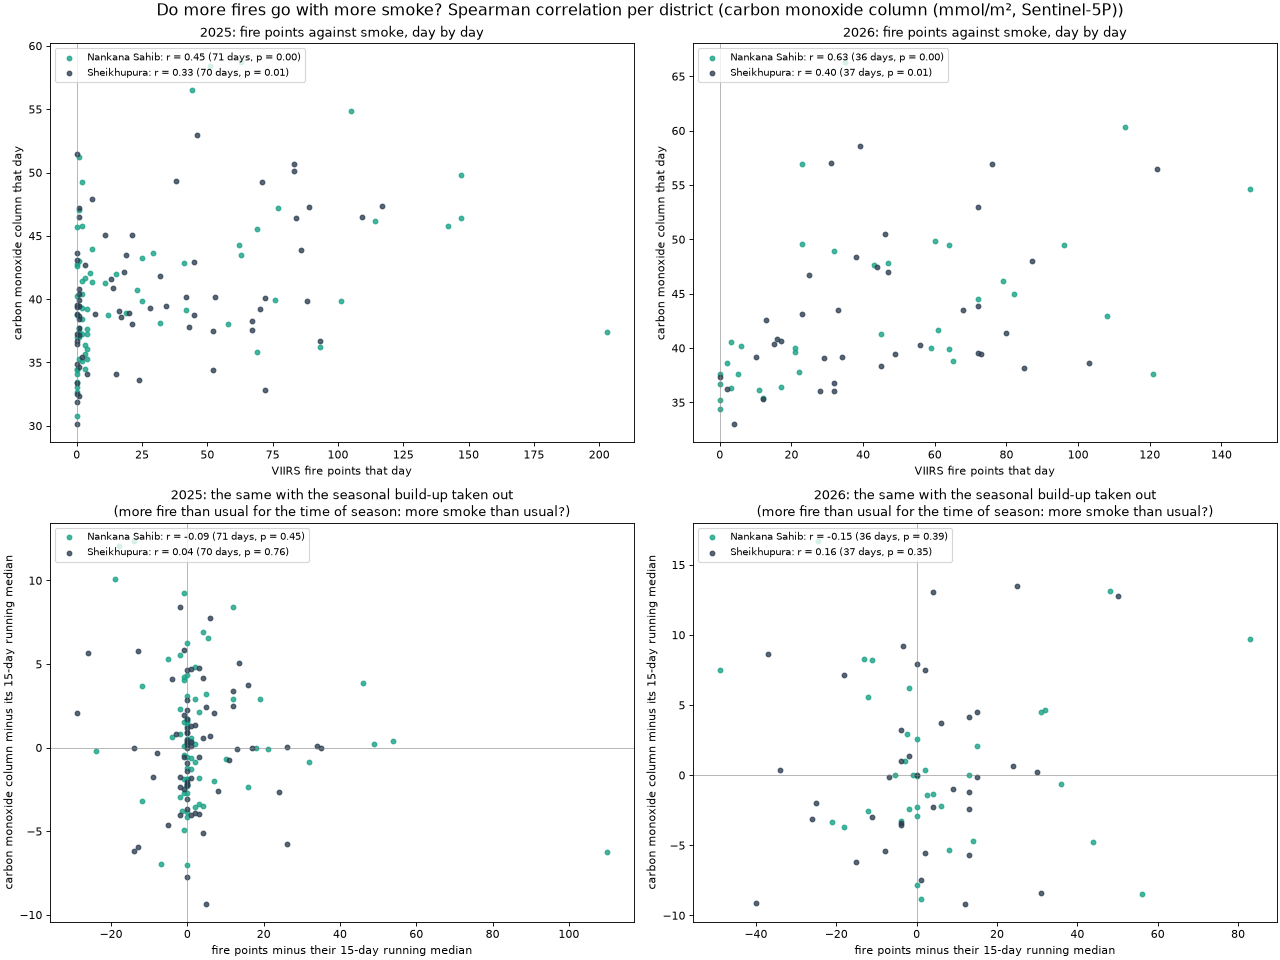
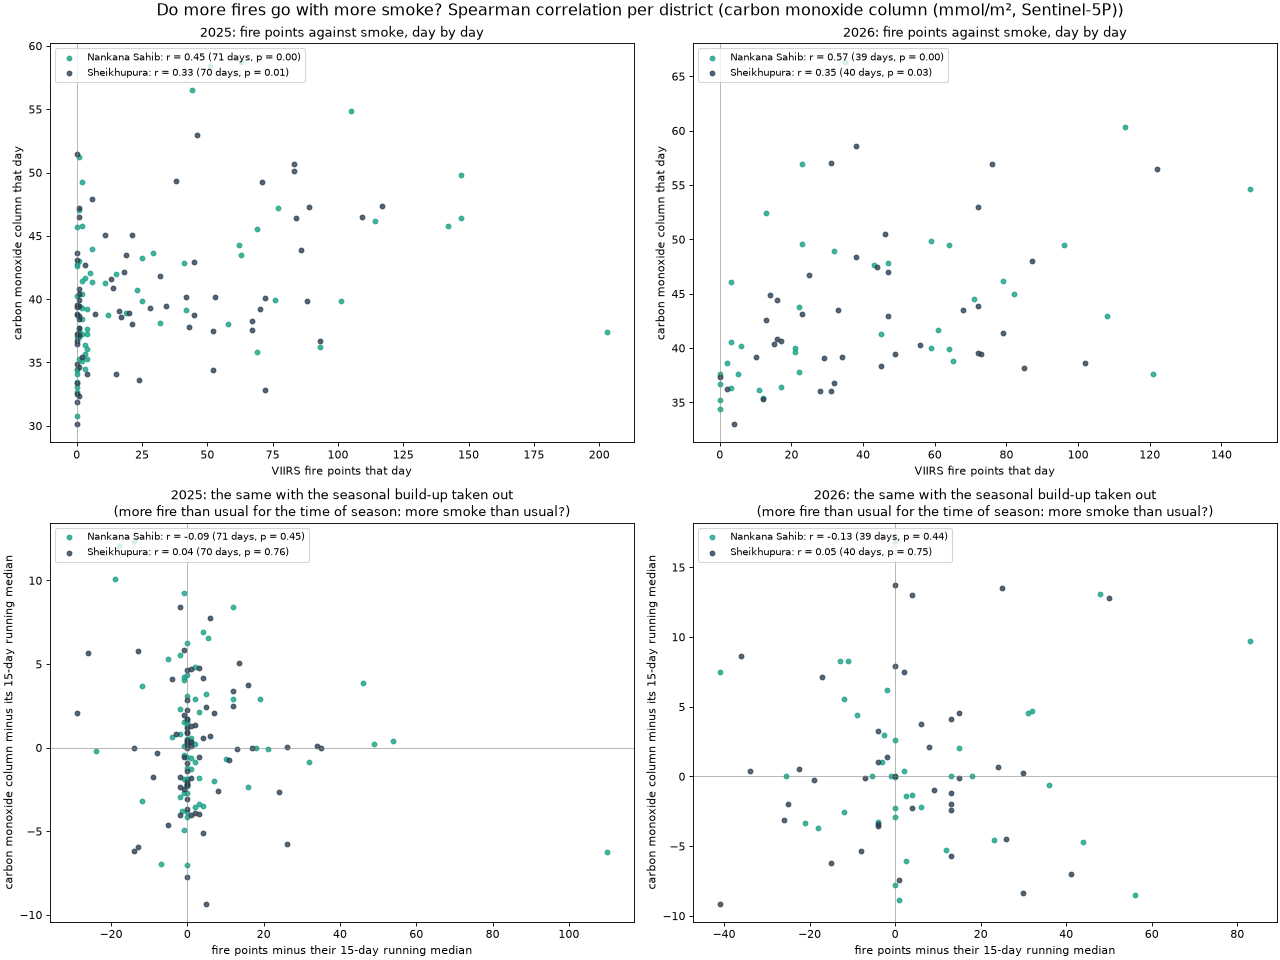
Update 2026 to 15 November: an earlier, smaller peak than 2025
- By 15 Nov 2026: 11,693 ha of farmland burned, 14% less than 2025 by the same date.
- 2026 fire points peaked on 1 Nov; 2025's surge from 5 Nov did not repeat.
- VIIRS missed 76% of burned farmland to 15 Nov (71% in 2025 by the same date).
- "Possibly burned" jumped again on 15 Nov; still not counted.

diff --git a/README.md b/README.md
@@ -268,30 +268,33 @@ fire points missed. Then: does the smoke over a district rise and fall with its 
   burned pixel is spread evenly over the afternoons in its window. Sums over a week are close; single
   days are an estimate.
 
-| Farmland burned (burn scars) | 2025, 1-31 Oct | 2026, 1-31 Oct | 2025, 1 Oct-10 Nov | 2026, 1 Oct-10 Nov | 2025, whole season |
+| Farmland burned (burn scars) | 2025, 1-31 Oct | 2026, 1-31 Oct | 2025, 1 Oct-15 Nov | 2026, 1 Oct-15 Nov | 2025, whole season |
 |---|---|---|---|---|---|
-| Sheikhupura | 3,897 ha (1.3%) | 3,207 ha (1.1%) | 6,492 ha (2.2%) | 4,743 ha (1.6%) | 8,783 ha (2.9%) |
-| Nankana Sahib | 2,288 ha (1.3%) | **3,415 ha (1.9%)** | 5,492 ha (3.1%) | 5,364 ha (3.0%) | 6,353 ha (3.6%) |
-| **Both districts** | **6,184 ha (1.3%)** | **6,622 ha (1.4%)** | **11,984 ha (2.5%)** | **10,107 ha (2.1%)** | **15,137 ha (3.2%)** |
-| VIIRS fire points, both districts | 2,258 | 2,222 | 3,987 | 3,527 | 4,340 |
-| Burned farmland with a fire point on it | 1,826 of 6,134 ha | 1,779 of 6,606 ha | 3,657 of 11,933 ha | 2,620 of 10,091 ha | 4,013 of 15,086 ha |
-| **Missed by VIIRS** | **70%** (Sheikhupura 71%, Nankana Sahib 69%) | **73%** (75%, 72%) | **69%** (73%, 65%) | **74%** (76%, 72%) | **73%** (78%, 67%) |
+| Sheikhupura | 3,897 ha (1.3%) | 3,207 ha (1.1%) | 7,497 ha (2.5%) | 5,702 ha (1.9%) | 8,783 ha (2.9%) |
+| Nankana Sahib | 2,288 ha (1.3%) | **3,415 ha (1.9%)** | 6,072 ha (3.4%) | 5,991 ha (3.4%) | 6,353 ha (3.6%) |
+| **Both districts** | **6,184 ha (1.3%)** | **6,622 ha (1.4%)** | **13,569 ha (2.9%)** | **11,693 ha (2.5%)** | **15,137 ha (3.2%)** |
+| VIIRS fire points, both districts | 2,258 | 2,219 | 4,210 | 3,691 | 4,340 |
+| Burned farmland with a fire point on it | 1,826 of 6,134 ha | 1,777 of 6,606 ha | 3,930 of 13,518 ha | 2,798 of 11,677 ha | 4,013 of 15,086 ha |
+| **Missed by VIIRS** | **70%** (Sheikhupura 71%, Nankana Sahib 69%) | **73%** (75%, 72%) | **71%** (75%, 66%) | **76%** (79%, 73%) | **73%** (78%, 67%) |
 
 ([districts](runs/districts/districts.csv), [per day](runs/districts/districts_daily.csv),
 [per week](runs/districts/districts_weekly.csv). "Burned farmland with a fire point on it" counts
 farmland burned while VIIRS data covers it; a first version also counted burned land outside farmland,
 which moved each share by about one point.)
 
-- **Fire points saw about a quarter of the burned farmland**, in both districts and both years (65-78%
+- **Fire points saw about a quarter of the burned farmland**, in both districts and both years (66-79%
   missed). Step 2's result from the box (82%) holds over the two whole districts.
 - **October 2026 burned about as much as October 2025** (+7%), but the burning moved: Nankana Sahib
   burned half as much again (+49%), Sheikhupura 18% less.
-- **2026 has fallen behind 2025.** It was ahead until 4 November (6,926 ha against 6,687), but by
-  10 November it had burned 10,107 ha against 11,984 by the same date in 2025 (16% less). In 2025 the
-  burning surged from 5 November, the busiest fire day of that season (296 fire points). In 2026 fire
-  points peaked earlier, on 1 November (270), and have fallen since (74-77 a day on 9-10 November).
-  Either 2026 peaked earlier, or the burning is still to come; 10 November was only 49% clear, so
-  the next images will tell. In 2025, 79% of the season's burned farmland had been seen by 10 November.
+- **2026 peaked earlier, and is behind 2025.** It was ahead until 4 November (6,926 ha against
+  6,687). In 2025 the burning then surged from 5 November, the busiest fire day of that season (296
+  fire points); in 2026 fire points had already peaked on 1 November (270) and the surge did not come.
+  By 10 November 2026 had burned 10,107 ha against 11,984 (16% less), and by 15 November 11,693 against
+  13,569 (14% less): from 11 to 15 November both years added the same, about 1,590 ha. Fire points
+  fell to 8-29 a day on the cloudy 12-14 November (Sentinel-2 saw only 29% of the area on 12 November)
+  and 69 on 15 November. By 15 November 2025, 90% of that season's burned farmland had been seen.
+  "Possibly burned" farmland jumped again on 15 November (3,172 ha in the two districts); it is not
+  counted.
 - **Smog on 2 November made the uncertain class grow, but it hid few burns.** On 2 November 2026, the
   day after the busiest fire day, Sentinel-2 flagged 250 ha as burned and 4,388 ha as possibly burned
   over the whole image box, and 70 and 240 ha in the two districts' farmland. (Last week's version of
@@ -312,19 +315,19 @@ least certain. Grouping touching burned pixels into patches:
 
 | Patch size | Share of burned farmland, 2025 / 2026 | Missed by VIIRS, 2025 / 2026 |
 |---|---|---|
-| 1 pixel (0.04 ha) | 6% / 6% | 91% / 89% |
-| 2-8 pixels (0.08-0.32 ha) | 20% / 19% | 89% / 87% |
-| 9-24 pixels (0.36-0.96 ha) | 16% / 17% | 84% / 83% |
-| 25-99 pixels (1-4 ha) | 26% / 27% | 75% / 75% |
-| 100 pixels or more (4 ha and up) | 32% / 32% | 53% / 59% |
-| **9 pixels or more (0.36 ha and up)** | **74% / 76%** | **68% / 70%** |
+| 1 pixel (0.04 ha) | 6% / 6% | 91% / 90% |
+| 2-8 pixels (0.08-0.32 ha) | 20% / 19% | 89% / 88% |
+| 9-24 pixels (0.36-0.96 ha) | 16% / 17% | 84% / 84% |
+| 25-99 pixels (1-4 ha) | 26% / 27% | 75% / 76% |
+| 100 pixels or more (4 ha and up) | 32% / 31% | 53% / 62% |
+| **9 pixels or more (0.36 ha and up)** | **74% / 75%** | **68% / 72%** |
 
-([patches](runs/districts/districts_patches.csv); 2025 whole season, 2026 to 10 November)
+([patches](runs/districts/districts_patches.csv); 2025 whole season, 2026 to 15 November)
 
 - **A quarter of the burned farmland is in patches under 0.36 ha**, and VIIRS misses nearly 90% of
-  those. Leaving them all out, it still misses **68-70%**: the result is not carried by small, noisy
+  those. Leaving them all out, it still misses **68-72%**: the result is not carried by small, noisy
   patches.
-- **Even big burns are missed half the time**: patches of 4 ha and more had no fire point on 53-59%
+- **Even big burns are missed half the time**: patches of 4 ha and more had no fire point on 53-62%
   of their area. A VIIRS fire point needs the field alight during a pass, whatever its size.
 
 ![Burn scars and fire points in the two districts](runs/districts/districts_map.png)
@@ -342,14 +345,14 @@ retrieval flags as invalid or outlier: its monthly median *falls* from October t
 measurements, averaged over each district:
 
 - **UV aerosol index**: particles that absorb ultraviolet light, which smoke does, but so does dust.
-  Values on 86 of 91 days in 2025 and on 40 of 41 days of 2026 so far (to 10 November).
+  Values on 86 of 91 days in 2025 and on 45 of 46 days of 2026 so far (to 15 November).
 - **Carbon monoxide (CO) column**: a gas burning gives off. It lasts for weeks, so it builds up over
-  the whole region rather than marking single fires. Values on 70-71 days in 2025 and 36-37 of 41 in
+  the whole region rather than marking single fires. Values on 70-71 days in 2025 and 39-40 of 46 in
   2026.
 
 **2026 has passed 2025's smokiest day twice**: CO over Nankana Sahib reached 60.3 mmol/m² on
 2 November 2026 and **66.4 on 10 November** (58.6 over Sheikhupura); 2025's highest day was 58.8, on
-29 October. 10 November was a quiet fire day (74 fire points in the two districts, against 270 on
+29 October. 10 November was a quiet fire day (73 fire points in the two districts, against 270 on
 1 November), and its CO comes from fewer clear pixels than usual: one more sign that the day's smoke is
 not set by the day's local burning.
 
@@ -368,12 +371,12 @@ not set by the day's local burning.
 
 Spearman correlation of each day's smoke with that day's fire points, per district:
 
-| | 2025 Sheikhupura | 2025 Nankana Sahib | 2026 Sheikhupura, to 10 Nov | 2026 Nankana Sahib, to 10 Nov |
+| | 2025 Sheikhupura | 2025 Nankana Sahib | 2026 Sheikhupura, to 15 Nov | 2026 Nankana Sahib, to 15 Nov |
 |---|---|---|---|---|
-| CO, day by day | 0.33 | 0.45 | 0.40 | 0.63 |
-| CO, seasonal trend taken out | 0.04 | -0.09 | 0.16 | -0.15 |
-| Aerosol index, day by day | 0.13 | 0.26 | 0.06 | -0.02 |
-| Aerosol index, seasonal trend taken out | -0.25 | -0.20 | -0.03 | -0.35 |
+| CO, day by day | 0.33 | 0.45 | 0.35 | 0.57 |
+| CO, seasonal trend taken out | 0.04 | -0.09 | 0.05 | -0.13 |
+| Aerosol index, day by day | 0.13 | 0.26 | 0.06 | -0.06 |
+| Aerosol index, seasonal trend taken out | -0.25 | -0.20 | -0.05 | -0.26 |
 
 ("Seasonal trend taken out": each series minus its 15-day running median, so the question becomes "more
 fire than usual for the time of season, more smoke than usual?". [All correlations, with p-values and
@@ -382,9 +385,9 @@ later.)
 
 - **CO follows the season.** In 2025 it rose with the burning and peaked in the same week (49.3 in the
   week from 29 October, the week with the most burned farmland), and the correlation day by day is
-  clear (0.33-0.63).
+  clear (0.33-0.57).
 - **Day to day, local fires do not explain the smoke.** With the seasonal build-up taken out, the CO
-  correlation is small and not significant in all four cases (r from -0.15 to 0.16, p 0.35 or more). CO dropped to 38.6 the week after the
+  correlation is small and not significant in all four cases (r from -0.13 to 0.05, p 0.44 or more). CO dropped to 38.6 the week after the
   peak, while 2,662 ha still burned, and rose again to 45.8 in the week from 19 November, when the two
   districts had only 19 fire points. Which day is smoky is set by something else: wind bringing smoke
   from elsewhere (burning in Indian Punjab peaks in mid November), or still air and inversions
